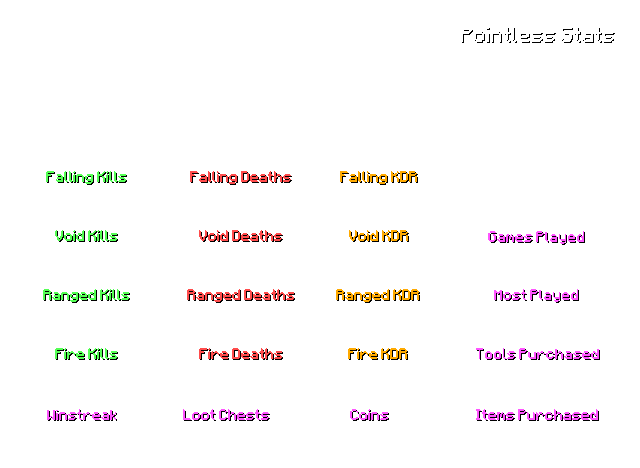
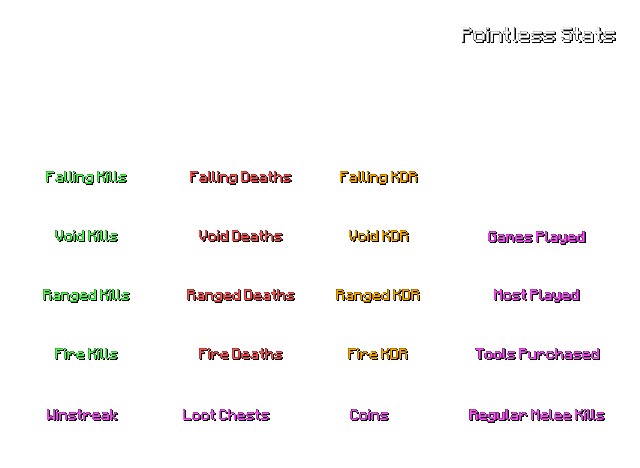
Ordered /usage descending & added regular melee kills to /pointless

diff --git a/bot/cogs/commands/misc.py b/bot/cogs/commands/misc.py
@@ -47,7 +47,7 @@ class Misc(commands.Cog):
     @app_commands.command(name = "usage", description = "View Command Usage")
     async def usage_stats(self, interaction: discord.Interaction):
         with open('./assets/command_map.json', 'r') as datafile:
-            command_map = load_json(datafile)['commands']
+            command_map: dict = load_json(datafile)['commands']
 
         with sqlite3.connect('./database/command_usage.db') as conn:
             cursor = conn.cursor()
@@ -59,12 +59,16 @@ class Misc(commands.Cog):
             if not table_data: table_data = (0, 0)
             description = [f'**Overall - {table_data[1]}**\n']
 
+            usage_values = {}
             for table in tables:
                 cursor.execute(f'SELECT * FROM {table} WHERE discord_id = {interaction.user.id}')
                 table_data = cursor.fetchone()
-                
+
                 if not table_data or table == "overall": continue
-                description.append(f'`{command_map.get(table)}` - `{table_data[1]}`')
+                usage_values[command_map.get(table)] = table_data[1]
+
+            for key, value in sorted(usage_values.items(), key=lambda x: x[1], reverse=True):
+                description.append(f'`{key}` - `{value}`')
 
         embed_color = int(self.config['embed_primary_color'], base=16)
         embed = discord.Embed(title="Your Command Usage", description='\n'.join(description), color=embed_color)

diff --git a/bot/calc/calctotal.py b/bot/calc/calctotal.py
@@ -81,6 +81,6 @@ class Stats:
     def get_misc_pointless(self):
         games_played = self.hypixel_data_bedwars.get(f'{self.mode}games_played_bedwars', 0)
         tools_purchased = self.hypixel_data_bedwars.get(f'{self.mode}permanent_items_purchased_bedwars', 0)
-        items_purchased = self.hypixel_data_bedwars.get(f'{self.mode}items_purchased_bedwars', 0)
+        melee_kills = self.hypixel_data_bedwars.get(f'{self.mode}entity_attack_kills_bedwars', 0)
         winstreak = self.hypixel_data_bedwars.get(f'{self.mode}winstreak', 0)
-        return f'{games_played:,}', f'{tools_purchased:,}', f'{items_purchased:,}', f'{winstreak:,}'
+        return f'{games_played:,}', f'{tools_purchased:,}', f'{melee_kills:,}', f'{winstreak:,}'
